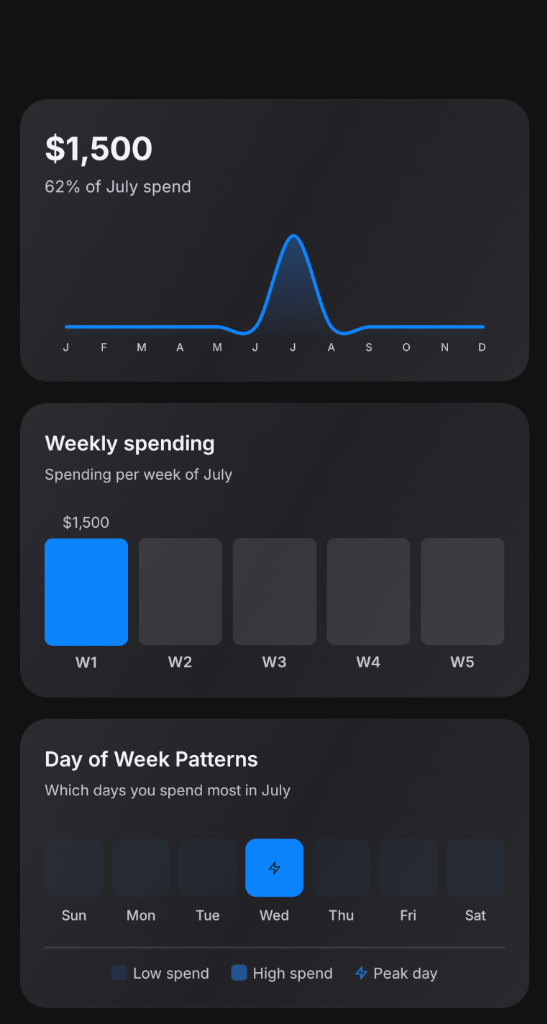
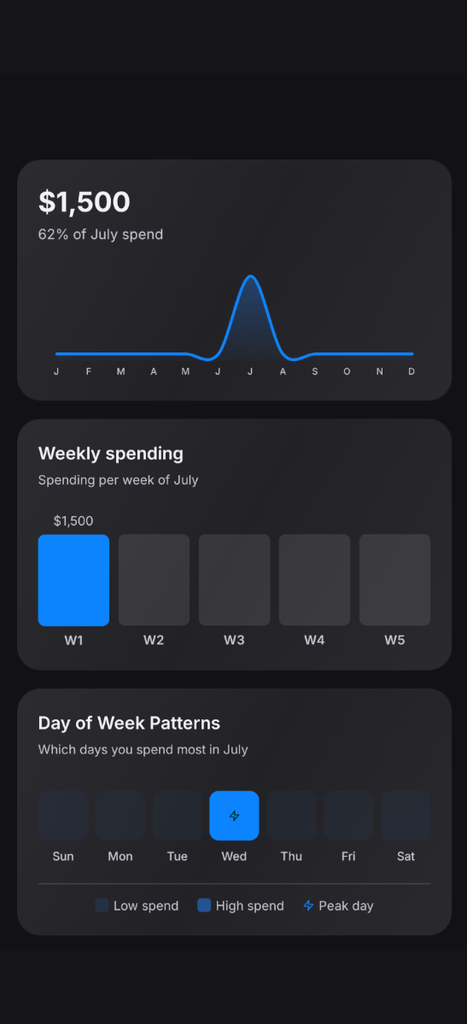
fix: change section 07 heading to tracking bills to match user request

diff --git a/Attiq Landing.dc.html b/Attiq Landing.dc.html
@@ -390,7 +390,7 @@
             <div
               style="display:inline-flex;align-items:center;gap:10px;color:#18E092;font-weight:700;font-size:13px;letter-spacing:.06em;text-transform:uppercase">
               <span style="color:#5A5A62">07</span><span
-                style="width:22px;height:1px;background:rgba(255,255,255,.18)"></span> Bills &amp; Subscriptions</div>
+                style="width:22px;height:1px;background:rgba(255,255,255,.18)"></span> Tracking bills</div>
             <h3 style="font-size:36px;font-weight:800;letter-spacing:-.02em;margin:16px 0 0;line-height:1.1">Bills
               that<br>remind you</h3>
             <p style="font-size:16.5px;color:#C7C7D1;line-height:1.65;margin:16px 0 22px;max-width:440px">Track your monthly rent, utilities, and recurring subscriptions. Attiq automatically monitors upcoming due dates so you never get caught off guard or pay a late fee.</p>

diff --git a/index.html b/index.html
@@ -495,7 +495,7 @@
             <div
               style="display:inline-flex;align-items:center;gap:10px;color:#18E092;font-weight:700;font-size:13px;letter-spacing:.06em;text-transform:uppercase">
               <span style="color:#5A5A62">07</span><span
-                style="width:22px;height:1px;background:rgba(255,255,255,.18)"></span> Bills &amp; Subscriptions</div>
+                style="width:22px;height:1px;background:rgba(255,255,255,.18)"></span> Tracking bills</div>
             <h3 style="font-size:36px;font-weight:800;letter-spacing:-.02em;margin:16px 0 0;line-height:1.1">Bills
               that<br>remind you</h3>
             <p style="font-size:16.5px;color:#C7C7D1;line-height:1.65;margin:16px 0 22px;max-width:440px">Track your monthly rent, utilities, and recurring subscriptions. Attiq automatically monitors upcoming due dates so you never get caught off guard or pay a late fee.</p>